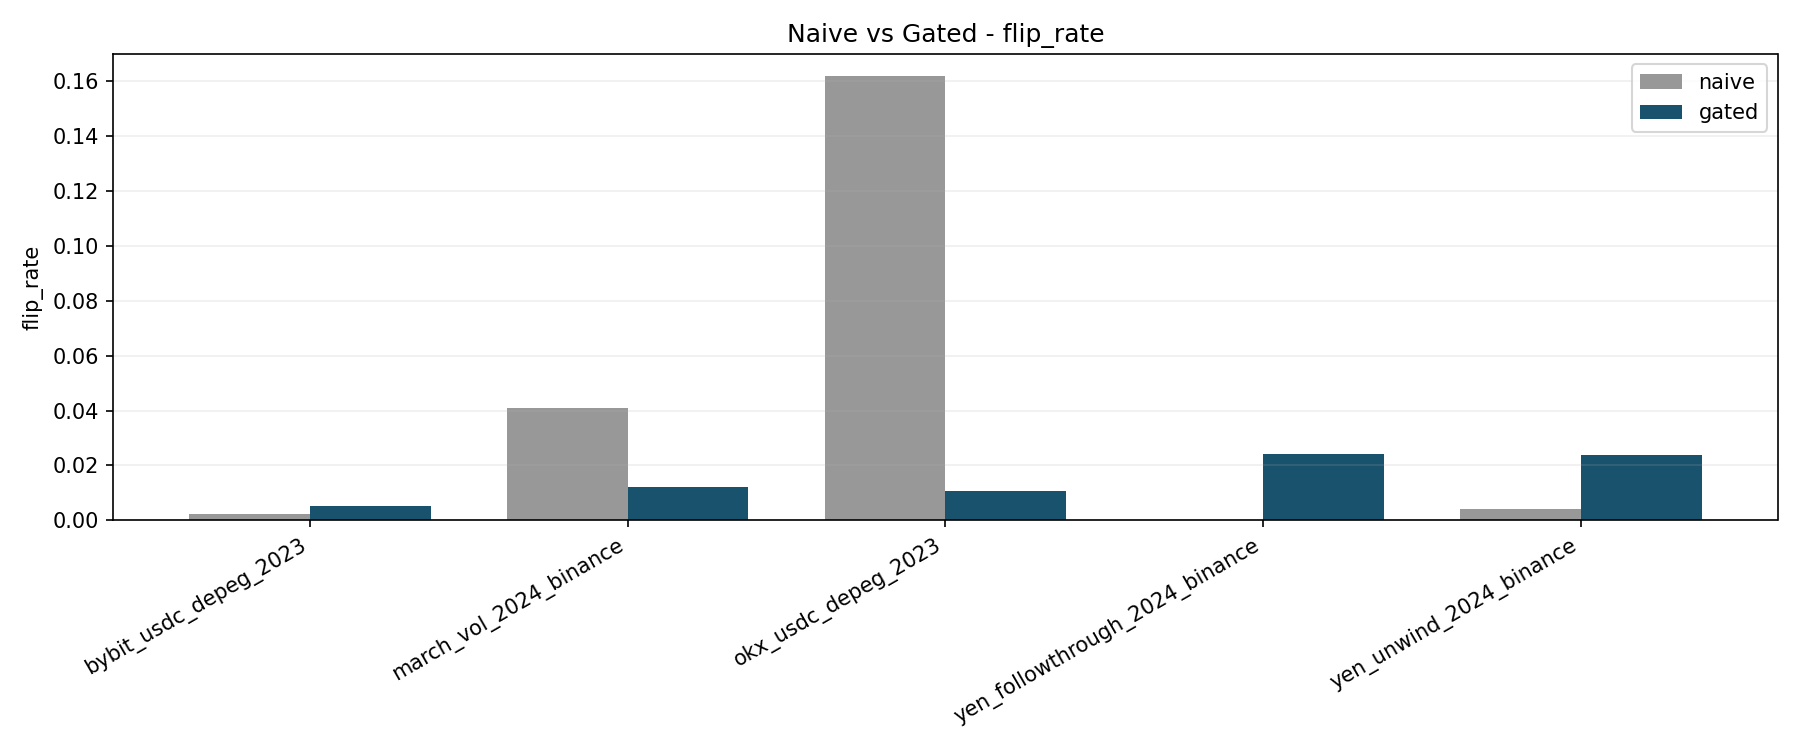
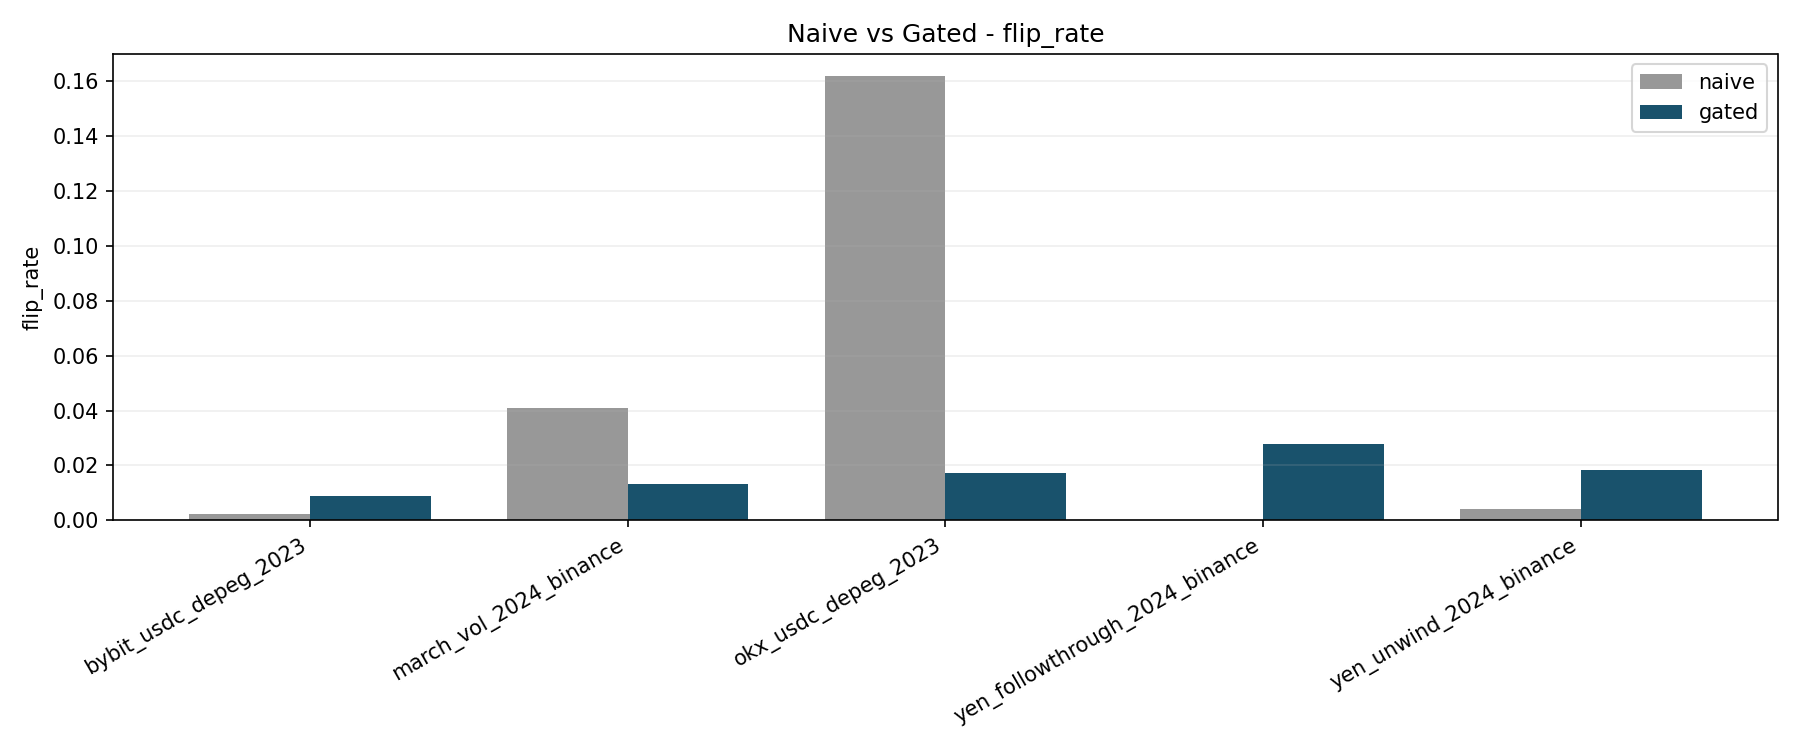
Improvement over diffferent result

diff --git a/src/backtest.py b/src/backtest.py
@@ -69,6 +69,7 @@ def _decision_to_position_stateful(
 
     for i, (decision_i, m_i) in enumerate(zip(decision.to_numpy(), m_t.to_numpy())):
         current = prev_pos
+        exited_this_bar = False
 
         if current != 0.0:
             should_exit = False
@@ -83,13 +84,17 @@ def _decision_to_position_stateful(
                 should_exit = True
             if should_exit:
                 current = 0.0
+                exited_this_bar = True
 
-        target = _position_from_trade_signal(decision_i, float(m_i) if np.isfinite(m_i) else np.nan)
-        if target != 0.0:
-            if current == 0.0:
-                current = target
-            elif np.sign(current) != np.sign(target):
-                current = target
+        # Enforce exit conditions for this bar; otherwise max-holding and safety exits
+        # can be bypassed by immediate same-bar re-entry.
+        if not exited_this_bar:
+            target = _position_from_trade_signal(decision_i, float(m_i) if np.isfinite(m_i) else np.nan)
+            if target != 0.0:
+                if current == 0.0:
+                    current = target
+                elif np.sign(current) != np.sign(target):
+                    current = target
 
         if current == 0.0:
             holding = 0

diff --git a/tests/test_regressions.py b/tests/test_regressions.py
@@ -118,6 +118,29 @@ class HitRateTests(unittest.TestCase):
         self.assertLess(float(wrong_legacy), float(metrics["hit_rate"]))
 
 
+class StatefulExitTests(unittest.TestCase):
+    def test_max_holding_bars_enforces_exit_without_same_bar_reentry(self) -> None:
+        idx = pd.date_range("2024-01-01", periods=6, freq="1min", tz="UTC")
+        premium = pd.Series([0.0, 0.1, 0.2, 0.3, 0.4, 0.5], index=idx, name="premium")
+        decision = pd.Series(["Trade"] * len(idx), index=idx, name="decision")
+        m_t = pd.Series([1.0] * len(idx), index=idx, name="m_t")
+
+        log, _ = run_backtest(
+            premium,
+            decision,
+            m_t,
+            freq="1min",
+            cost_bps=0.0,
+            position_mode="stateful",
+            min_holding_bars=1,
+            max_holding_bars=2,
+        )
+
+        self.assertEqual(float(log.loc[idx[2], "position"]), 0.0)
+        self.assertEqual(float(log.loc[idx[5], "position"]), 0.0)
+        self.assertEqual(int((log["position_event"] == "Exit").sum()), 2)
+
+
 class PriceMatrixLoaderTests(unittest.TestCase):
     def test_loader_drops_nat_and_duplicate_timestamps(self) -> None:
         with tempfile.TemporaryDirectory() as tmp_dir:

diff --git a/reports/final/executive_summary.md b/reports/final/executive_summary.md
@@ -13,15 +13,15 @@ This report consolidates final episode performance and on-chain diagnostics.
 ## Performance Snapshot (Gated)
 
 ```text
-                       episode variant    sharpe   pnl_net  max_drawdown  turnover  flip_rate  active_ratio  hit_rate
-         bybit_usdc_depeg_2023   gated  0.000000  0.000000      0.000000       0.0   0.005208      0.000000  0.000000
-           okx_usdc_depeg_2023   gated 42.764729  0.004972     -0.003079      16.0   0.010764      0.044097  0.535433
-        march_vol_2024_binance   gated 23.550434  0.001240     -0.001071      26.0   0.012153      0.151389  0.511468
-       yen_unwind_2024_binance   gated  5.514261 -0.000239     -0.002042      50.0   0.023958      0.504861  0.495186
-yen_followthrough_2024_binance   gated  5.814444 -0.001743     -0.002397      56.0   0.024306      0.336111  0.501033
+                       episode variant     sharpe   pnl_net  max_drawdown  turnover  flip_rate  active_ratio  hit_rate
+         bybit_usdc_depeg_2023   gated 114.260760  0.002156     -0.001634       8.0   0.009028      0.009722  0.500000
+           okx_usdc_depeg_2023   gated  25.950138  0.013228     -0.008564      38.0   0.017361      0.137847  0.523929
+        march_vol_2024_binance   gated  16.002749  0.001014     -0.001095      28.0   0.013194      0.211111  0.521382
+       yen_unwind_2024_binance   gated  16.644719  0.026293     -0.003966      47.0   0.018403      0.618403  0.494104
+yen_followthrough_2024_binance   gated  10.131636 -0.000617     -0.001211      66.0   0.027778      0.488889  0.501420
 ```
 
-- Mean Sharpe delta (gated - naive): `-27.0932`
+- Mean Sharpe delta (gated - naive): `-5.1606`
 
 ## On-Chain Validation Snapshot
 

diff --git a/README.md b/README.md
@@ -80,6 +80,12 @@ source .venv/bin/activate
 pip install -r requirements.txt
 ```
 
+## Tests (CI-safe)
+
+```bash
+python -m unittest discover -s tests -p 'test_*.py' -q
+```
+
 ## Expected input
 
 Main pipeline input is a price matrix (parquet recommended, csv supported):
@@ -208,8 +214,8 @@ python -m src.tune_gating \
 
 Latest tuned defaults now set in `configs/config.yaml`:
 
-- `strategy.entry_k: 0.5`
-- `strategy.t_widen_quantile: 0.99`
+- `strategy.entry_k: 0.28`
+- `strategy.t_widen_quantile: 0.9`
 - `strategy.chi_widen_quantile: 0.99`
 - `strategy.threshold_mode: expanding` (causal quantiles)
 - `regimes.stress_quantile: 0.9`
